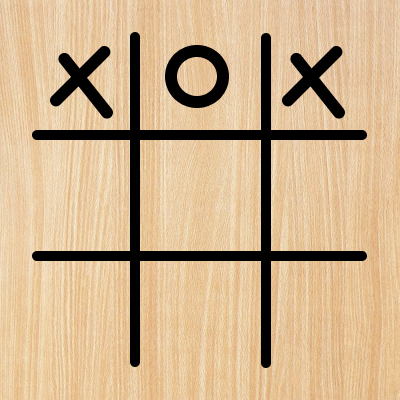
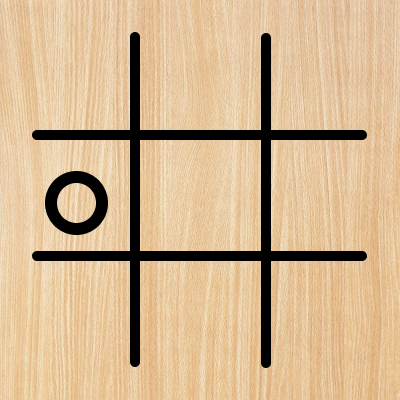
fix

diff --git a/lib/game.ts b/lib/game.ts
@@ -26,13 +26,16 @@ const saveCurrentGame = (name : string) => {
     fs_extra.moveSync(src, dest)
 }
 export const newGame = () => {
+    if (!fs.existsSync("./games/current")){
+        fs.mkdirSync("./games/current");
+    }
     writeFile(pathForCurrentGame(GAME_NAME_FILE_NAME), new Date().toISOString())
     createEmptyFile(pathForCurrentGame(MOVES_FILE_NAME))
     createEmptyFile(pathForCurrentGame(MATRIX_FILE_NAME))
     reloadCurrentGame()
     propagateReadme(pathForCurrentGame(README_PATH))
 }
-function propagateReadme(readmePath : string) {
+export const propagateReadme = (readmePath : string) => {
     const readme = fs.readFileSync(readmePath, 'utf-8')
     const embedded = embedReadme(readme)
     fs.writeFileSync(README_PATH, embedded)

diff --git a/lib/move.ts b/lib/move.ts
@@ -8,13 +8,14 @@ import { reloadCurrentGame } from "./reload"
 
 
 const execute = (move : Move) => {
+    if(!(move.symbol == "x") && !(move.symbol == "o")) return
     const coords = getCoords(move.index), x = coords.x, y = coords.y
-    console.log(x, y, symbol)
+    console.log(x, y, move.symbol)
     var matrix = matrixRepo.read()
     console.log("matrix", matrix)
     const place = matrix[x][y]
     console.log("place", place)
-    if(place != "x" && place != "o") matrix[x][y] = symbol
+    if(place != "x" && place != "o") matrix[x][y] = move.symbol
     console.log("matrix", matrix)
     matrixRepo.write(matrix)
     const moves = movesRepo.read().concat([move])

diff --git a/lib/reload.ts b/lib/reload.ts
@@ -7,6 +7,7 @@ import * as movesRepo from "./data/moves"
 import * as nameRepo from "./data/name"
 
 import { pathForCurrentGame, OUTPUT_IMAGE_NAME, README_FILE_NAME } from "./constants"
+import { propagateReadme } from "./game"
 
 
 export const reloadCurrentGame = (ended : boolean = false, winningSymbol : string | null = null) => {
@@ -15,4 +16,5 @@ export const reloadCurrentGame = (ended : boolean = false, winningSymbol : strin
     const outputReadme = pathForCurrentGame(README_FILE_NAME)
     refreshImage(matrix, outputImagePath)
     refreshReadme(moves, date, ended, winningSymbol, outputReadme)
+    propagateReadme(outputReadme)
 }

diff --git a/lib/generators/readme.ts b/lib/generators/readme.ts
@@ -17,11 +17,12 @@ const writeReadme = (path, data : string) => {
 
 const getUsers = (moves : Move[]) : Map<string, string[]> => {
     let output = new Map<string, string[]>()
+    output["x"] = []
+    output["o"] = []
     moves.forEach(move => {
-        let array = output[move.symbol]
-        array = array || []
-        if(array.find(move.user) == null) {
-            array.push(move.user)
+        console.log(move)
+        if(output[move.symbol].indexOf(move.user) == -1) {
+            output[move.symbol].push(move.user)
         }
     })
     return output

diff --git a/lib/data/moves.ts b/lib/data/moves.ts
@@ -8,6 +8,7 @@ export type Move = {user : string, symbol : string, index : number}
 
 export const read = () : Move[] => {
     const file = fs.readFileSync(path, 'utf8')
+    if(file == "") return []
     return file.split("\n").map(line => {
         const values = line.split(",")
         return {user: values[0], symbol: values[1], index: parseInt(values[2])}

diff --git a/README.md b/README.md
@@ -1,18 +1,41 @@
 # TicTacToe
 
-This game started on 30/1/2022, 11:49:41
+Play TicTacToe directly from Github!
+
+With this repo you can play TicTacToe with other viewers of this repo! Enjoy!
+
+##Current Game
+
+# TicTacToe
+
+This game started on 30/1/2022, 12:21:35
 
 ![alt text](https://github.com/donadev/TicTacToe/blob/main/games/current/output.png?raw=true)
 
 ## Users playing
 The following is a list of every user that has played this game
 ### Team ⭕
-
+[evilGygy](https://github.com/evilGygy)
 ### Team ❌
 
 
 ## Game status
 Game is currently in progress. Who will win?
+
+
+<!-- CONTACT -->
+## Contact
+
+Luigi Donadel - [@luigidonadel](https://twitter.com/luigidonadel) - luigi.donadel@gmail.com
+
+Project Link: [https://github.com/donadev/TicTacToe](https://github.com/donadev/TicTacToe)
+
+
+
+## Past Games 
+The following is the list of past games. Click on any to view the winners!
+
+- [2022-01-30T10:49:41.658Z](https://github.com/donadev/TicTacToe/blob/main/games/2022-01-30T10:49:41.658Z)
 
 
 <!-- CONTACT -->

diff --git a/games/2022-01-30T10:49:41.658Z/Readme.md b/games/2022-01-30T10:49:41.658Z/Readme.md
@@ -1,18 +1,18 @@
 # TicTacToe
 
-This game started on 30/1/2022, 12:21:35
+This game started on 30/1/2022, 11:49:41
 
-![alt text](https://github.com/donadev/TicTacToe/blob/main/games/current/output.png?raw=true)
+![alt text](https://github.com/donadev/TicTacToe/blob/main/games/2022-01-30T10:49:41.658Z/output.png?raw=true)
 
 ## Users playing
 The following is a list of every user that has played this game
 ### Team ⭕
-[evilGygy](https://github.com/evilGygy)
+[evilGigi](https://github.com/evilGigi), [evilGygy](https://github.com/evilGygy)
 ### Team ❌
-
+[donadev](https://github.com/donadev)
 
 ## Game status
-Game is currently in progress. Who will win?
+undefined
 
 
 <!-- CONTACT -->
